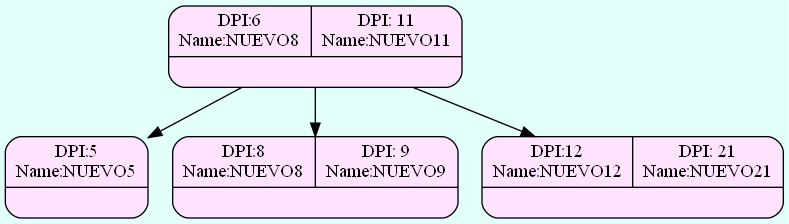
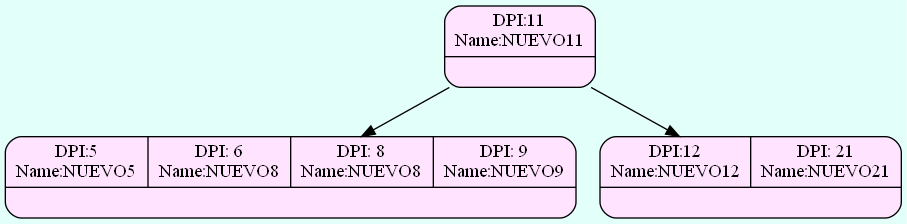
balanceo de arbol completo

diff --git a/FASE 2/src/storage/ArbolB.java b/FASE 2/src/storage/ArbolB.java
@@ -522,6 +522,37 @@ public class ArbolB {
 
 		} else {
 			System.out.println("Por derecha");
+			NodoB anterior = PadreDer.anterior;
+			if (PadreDer.siguiente != null) {
+				PadreDer.siguiente.anterior = PadreDer.anterior;
+			}
+			
+			if (raiz.primero == PadreDer.anterior) {
+				PadreDer.anterior = null;
+				raiz.primero = PadreDer;
+			}
+			PadreDer.anterior = null;
+			
+			PadreDer.izquierda.contador += 2;
+			
+			NodoB actual = RamaDer.primero;
+
+			RamaRemove.primero.siguiente = anterior;
+			RamaRemove.primero.siguiente.izquierda = null;
+			RamaRemove.primero.siguiente.derecha = null;
+			RamaRemove.primero.siguiente.anterior = RamaRemove.primero;
+			
+			RamaDer.primero = RamaRemove.primero;
+			RamaRemove.primero.siguiente.siguiente = actual;
+			
+			NodoB aux = RamaDer.primero;
+			
+			while (aux!= null) {
+				System.out.println("," + aux.id);
+				aux =aux.siguiente;
+			}
+			
+			print_start(this.raiz.primero);
 		}
 
 	}
